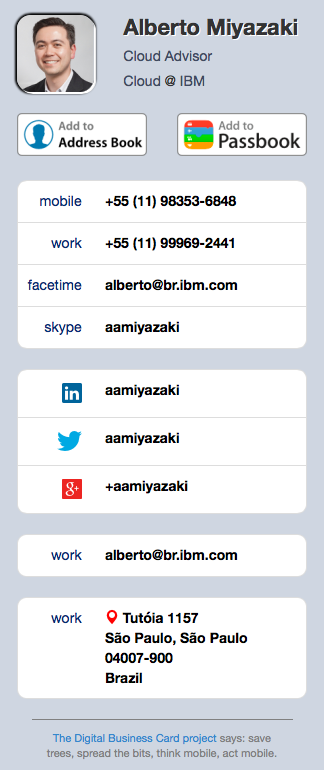
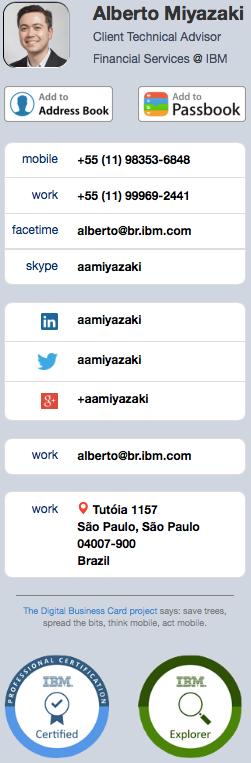
CTA

diff --git a/index.html b/index.html
@@ -199,6 +199,25 @@ Made in Brazil
 	
 		<div id="sections">
 		</div>
+
+	  	<div class="container-fixed badges">
+			<div class="container">
+				<div class="row"><br/></div>
+			</div>
+			
+			<div class="container buttons">
+				<div class="row">
+					<div class="col-xs-6 col-md-6 column">
+						<p class="text-center"><a href="https://www.youracclaim.com/badges/78f2d573-2346-4a94-ab0f-192e0695010b/public_url"><img src="resources/img/ibm_badge_certified.png" style="width: 130px" alt="Certification Details"/></a></p>
+					</div>
+					<div class="col-xs-6 col-md-6 column">
+						<p class="text-center"><a href="https://www.youracclaim.com/badges/b8e1564e-15ea-4980-8afc-17daf283908a/public_url"><img src="resources/img/ibm_badge_explorer.png" style="width: 130px" alt="Explorer Details"/></a></p>
+					</div>
+				</div>
+			</div>
+		</div>
+
+
 		
 		<div id="footer">
 			<div class="container">
@@ -389,6 +408,8 @@ Made in Brazil
 			</div>
 		<% } %>
 	</script>
+
+    <script src="https://ajax.googleapis.com/ajax/libs/jquery/2.1.1/jquery.min.js"></script>
 
 	<script id="template_system"><!--
 		// Simple JavaScript Templating
